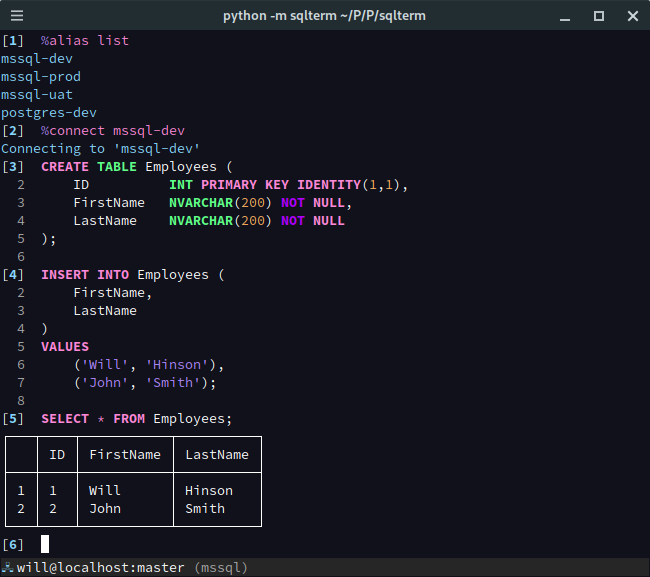
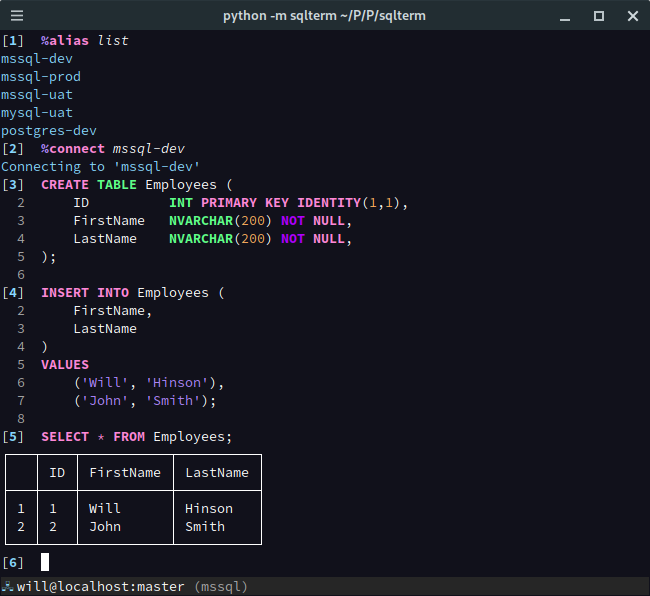
Improved highlighting for magic commands.

diff --git a/sqlterm/prompt/backends/prompt_toolkit/sqltermlexer.py b/sqlterm/prompt/backends/prompt_toolkit/sqltermlexer.py
@@ -1,6 +1,7 @@
 import functools
 import os
-from typing import Callable, Dict
+import shlex
+from typing import Callable, Dict, List
 
 from prompt_toolkit.document import Document
 from prompt_toolkit.formatted_text import StyleAndTextTuples
@@ -84,6 +85,13 @@ class SqlTermLexer(Lexer):
                 def _get_line_override(
                     line_number: int, get_line_func: Callable[[int], StyleAndTextTuples]
                 ) -> StyleAndTextTuples:
+                    command_tokens: List[str] = self._shell_split(
+                        document.lines[line_number][
+                            len(leading_whitespace)
+                            + len(constants.PREFIX_SQLTERM_COMMAND) :
+                        ]
+                    )
+
                     if line_number == 0:
                         return [
                             ("", leading_whitespace),
@@ -91,7 +99,14 @@ class SqlTermLexer(Lexer):
                                 "class:shell.command-sigil",
                                 constants.PREFIX_SHELL_COMMAND,
                             ),
-                            *get_line_func(line_number)[1:],
+                            (
+                                "class:shell.command",
+                                command_tokens[0] if len(command_tokens) > 0 else "",
+                            ),
+                            *(
+                                ("class:shell.command-args", token)
+                                for token in command_tokens[1:]
+                            ),
                         ]
 
                     return get_line_func(line_number)
@@ -111,20 +126,32 @@ class SqlTermLexer(Lexer):
 
             # ---- sqlterm command ----
             case constants.PREFIX_SQLTERM_COMMAND:
-                return lambda line_number: [
-                    ("", leading_whitespace),
-                    (
-                        "class:shell.command-sigil",
-                        constants.PREFIX_SQLTERM_COMMAND,
-                    ),
-                    (
-                        "class:shell.command",
+
+                def _get_line_sqlterm_command(line_number: int) -> StyleAndTextTuples:
+                    command_tokens: List[str] = self._shell_split(
                         document.lines[line_number][
                             len(leading_whitespace)
                             + len(constants.PREFIX_SQLTERM_COMMAND) :
-                        ],
-                    ),
-                ]
+                        ]
+                    )
+
+                    return [
+                        ("", leading_whitespace),
+                        (
+                            "class:shell.command-sigil",
+                            constants.PREFIX_SQLTERM_COMMAND,
+                        ),
+                        (
+                            "class:shell.command",
+                            command_tokens[0] if len(command_tokens) > 0 else "",
+                        ),
+                        *(
+                            ("class:shell.command-args", token)
+                            for token in command_tokens[1:]
+                        ),
+                    ]
+
+                return _get_line_sqlterm_command
 
         # otherwise, lex a sql document
         return self._lex_document_sql(document=document)
@@ -138,6 +165,61 @@ class SqlTermLexer(Lexer):
 
         # otherwise, use the default/generic dialect
         return self.default_sql_lexer.lex_document(document)
+
+    def _shell_split(self: "SqlTermLexer", command: str) -> List[str]:
+        """
+        Performs a shell split that preserves spaces between tokens. This is
+        so that we can use the tokens in formatting user input.
+
+        Args:
+            command (str): The command to lex
+
+        Returns:
+            List[str]: The tokens contained within the command string
+
+        Raises:
+            Nothing
+        """
+
+        tokens: List[str] = []
+        current_token: str = ""
+
+        position: int = 0
+        in_quotes: bool = False
+        in_whitespace: bool = False
+
+        while position < len(command):
+            match command[position]:
+                case "\n" | " " | "\t":
+                    if not in_quotes and len(current_token) > 0:
+                        tokens.append(current_token)
+                        current_token = ""
+
+                    if not in_quotes:
+                        in_whitespace = True
+                case '"':
+                    if position + 1 < len(command) and command[position + 1] == '"':
+                        current_token += '"'
+                        position += 1
+                    else:
+                        if not in_quotes and len(current_token) > 0:
+                            tokens.append(current_token)
+                            current_token = ""
+
+                        in_quotes = not in_quotes
+                case _:
+                    if in_whitespace:
+                        tokens.append(current_token)
+                        current_token = ""
+                        in_whitespace = False
+
+            current_token += command[position]
+            position += 1
+
+        if len(current_token) > 0:
+            tokens.append(current_token)
+
+        return tokens
 
 
 # pylint: disable=wrong-import-position

diff --git a/sqlterm/prompt/backends/prompt_toolkit/prompttoolkitbackend.py b/sqlterm/prompt/backends/prompt_toolkit/prompttoolkitbackend.py
@@ -559,8 +559,9 @@ class PromptToolkitBackend(PromptBackend):
                 "object-browser.icon-table": "fg:skyblue",
                 "object-browser.icon-view": "fg:salmon",
                 "object-browser.object-name": "fg:azure",
-                "shell.command-sigil": f"fg:#{colors[Token.Literal.String.Symbol]}",
-                "shell.command": f"fg:#{colors[Token.Keyword]}",
+                "shell.command": f"fg:#{colors[Token.Keyword]} bold",
+                "shell.command-args": f"fg:#{colors[Token.Text]} italic",
+                "shell.command-sigil": f"fg:#{colors[Token.Literal.String.Symbol]} bold",
             }
         )
 

diff --git a/README.md b/README.md
@@ -5,7 +5,7 @@
 
 <br />
 
-![An example SQLTerm session](https://github.com/will-hinson/sqlterm/blob/wip/object-browser/resources/example-session3.png?raw=true)
+![An example SQLTerm session](https://github.com/will-hinson/sqlterm/blob/dev/resources/example-session3.png?raw=true)
 
 ## Installation
 The latest release version of SQLTerm may be installed from [PyPI](https://pypi.org/project/sqlterm/) using `pip`:
